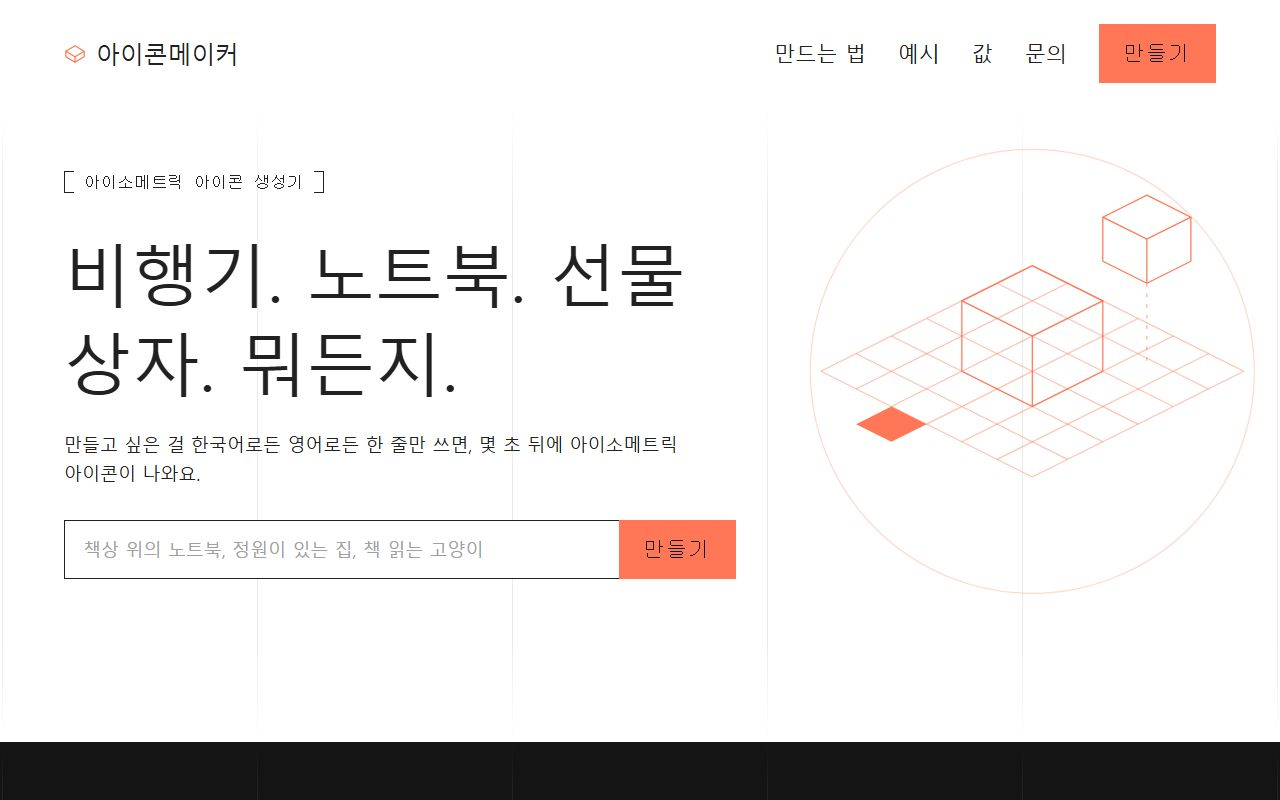
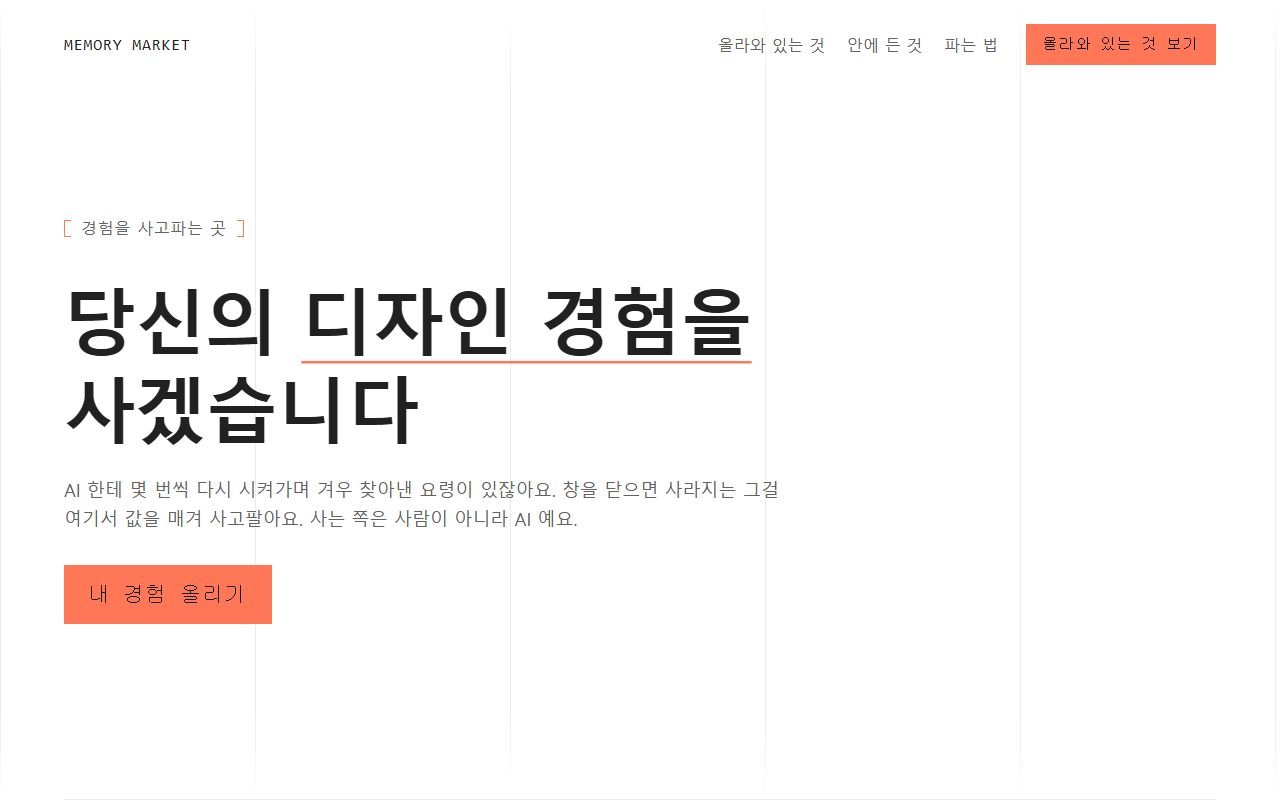
landing: 굵기 위계, 흐린 말풍선, 후 화면을 이 랜딩으로, 기록마다 사진
사장님 지적 다섯 가지.

- 가독성 — 전부 굵기 400 이던 것을 제목 600, 이름 600, 알게 된 것 500, 라벨 500 으로.
  bitnomial 을 베끼면서 굵기까지 하나로 눌러 놓은 게 읽기 힘들게 만들고 있었다.
- 가린 자리 — 빗금 막대를 흐린 말풍선으로. 오른쪽(사람)과 왼쪽(AI)이 번갈아 나와
  읽지 않아도 대화라는 게 보인다. DOM 에 글자는 여전히 0자다.
- 전후 사진 — 고친 뒤를 지금 보고 있는 이 랜딩의 첫 화면으로. 캡션은 "이 기록대로 고친 것".
  기록 01 의 알게 된 것(강조색 하나, 왼쪽 정렬, 그라데이션 없음, 1px 선)이 이 페이지에 그대로 들어가 있다.
- 사진 — 웹퍼블리셔(Paylane)는 체인에 있는 전후 두 장을 목록에서도 보여주고,
  카피라이터와 가상화폐 개발자는 안에 든 실제 글로 만든 사진을 붙였다.
  카피는 설명 파일의 제목 세 개, 가상화폐는 공개된 미리보기 두 건 그대로다. 지어낸 내용 없음.

카피 6/6, 디자인 5/5, 정합 어긋남 0건, 가로 스크롤 0, 가린 자리 글자 0.

diff --git a/site/index.html b/site/index.html
@@ -63,14 +63,14 @@
   /* ───────── 글자 사다리 ───────── */
   h1{
     font-size:clamp(30px, 5.6vw, 72px);
-    line-height:1.22; letter-spacing:0; font-weight:400;
+    line-height:1.22; letter-spacing:-.01em; font-weight:600;
     margin:18px 0 24px;
   }
   h1 .l1, h1 .l2{ display:block; }
-  .h2{ font-size:34px; line-height:1.3; font-weight:400; letter-spacing:0; margin:0 0 18px; }
+  .h2{ font-size:34px; line-height:1.3; font-weight:600; letter-spacing:0; margin:0 0 18px; }
   .lead{ font-size:21px; line-height:1.55; color:var(--mute); }
   .lead.w{ max-width:900px; }
-  .body{ font-size:18px; line-height:1.6; }
+  .body{ font-weight:500; font-size:18px; line-height:1.6; }
   .eyebrow{
     font-size:16px; line-height:1.5; letter-spacing:.04em; color:var(--mute);
     display:flex; align-items:center; gap:10px; margin:0 0 36px;
@@ -140,7 +140,7 @@
   .on-dark .row::after{ background:#5b5b5b; }
   .row .n{ font-family:var(--mono); font-size:16px; color:var(--mute); padding-top:6px; letter-spacing:.04em; }
   .on-dark .row .n{ color:var(--ondark-mute); }
-  .row .nm{ font-size:26px; line-height:1.35; font-weight:400; }
+  .row .nm{ font-size:26px; line-height:1.35; font-weight:600; }
   .row .ds{ font-size:18px; line-height:1.6; color:var(--mute); margin-top:8px; max-width:820px; }
   .row .mt{ font-family:var(--mono); font-size:15px; color:var(--mute); margin-top:12px; letter-spacing:.02em; }
   a.row .go{ position:absolute; right:0; top:28px; font-size:21px; color:var(--ink); }
@@ -166,20 +166,23 @@
   .on-dark .row .ds{ color:var(--ondark-soft); }
   .on-dark .row .mt{ color:var(--ondark-mute); }
 
-  .lab{ font-size:15px; letter-spacing:.04em; color:var(--mute); margin-bottom:6px; }
+  .lab{ font-size:14px; letter-spacing:.06em; color:var(--mute); margin-bottom:6px; font-weight:500; }
   .on-dark .lab{ color:var(--ondark-mute); }
   .on-dark .lab.hi{ color:var(--dark-accent); }
-  .said{ font-size:20px; line-height:1.55; }
+  .said{ font-size:20px; line-height:1.55; font-weight:500; }
   .got{ font-size:18px; line-height:1.6; color:var(--ondark-soft); }
   .said + .lab{ margin-top:18px; }
 
-  /* ───────── 가려진 자리. 글자를 한 자도 넣지 않는다 ───────── */
-  .mgrp{ margin:2px 0 0; }
+  /* ───────── 가려진 자리. 글자를 한 자도 넣지 않는다 ─────────
+     대화 모양의 흐린 덩어리다. 오른쪽이 사람, 왼쪽이 AI. 모양만으로 대화가 있다는 게 읽힌다. */
+  .mgrp{ margin:6px 0 0; display:flex; flex-direction:column; gap:10px; max-width:640px; }
   .mask{
-    display:block; height:12px; margin:0 0 8px; border-radius:0;
-    background-color:#2e2a27;
-    background-image:repeating-linear-gradient(135deg, rgba(255,255,255,.09) 0 5px, transparent 5px 10px);
+    display:block; flex:0 0 auto; height:44px; border-radius:18px 18px 18px 5px;
+    background:#d9d3cb; filter:blur(5px); opacity:.92; transform:translateZ(0);
   }
+  .mask.me{ align-self:flex-end; border-radius:18px 18px 5px 18px; background:#ffcdbd; }
+  .on-dark .mask{ background:#4b4642; }
+  .on-dark .mask.me{ background:#7a4d3e; }
   .mask:last-child{ margin-bottom:0; }
   .lockline{ display:flex; align-items:center; gap:8px; margin-top:12px; font-size:15px; color:var(--ondark-mute); }
   .lock{ position:relative; flex:0 0 auto; width:13px; height:16px; }
@@ -224,16 +227,16 @@
   .back{ display:inline-block; text-decoration:none; color:var(--mute); font-size:16px; margin-bottom:40px; }
   .back:hover{ color:var(--ink); }
   .dtop{ padding-top:48px; }
-  .dtitle{ font-size:clamp(28px,3.6vw,44px); line-height:1.28; font-weight:400; margin:0 0 16px; max-width:900px; }
+  .dtitle{ font-size:clamp(28px,3.6vw,44px); line-height:1.28; font-weight:600; margin:0 0 16px; max-width:900px; }
   .dsub{ font-size:18px; color:var(--mute); max-width:759px; margin:0 0 20px; }
   .orig{ font-size:16px; color:var(--mute); max-width:759px; margin:0 0 24px; padding-left:16px; border-left:1px solid var(--accent); }
-  .orig b{ font-weight:400; color:var(--ink); }
+  .orig b{ font-weight:500; color:var(--ink); }
   .dmeta{ display:flex; flex-wrap:wrap; gap:10px; margin-bottom:8px; }
   .chip{ border:1px solid #d8d8d8; border-radius:0; padding:7px 14px; font-family:var(--mono); font-size:15px; color:var(--mute); }
   button.chip{ cursor:pointer; }
   .chip.hi{ background:var(--accent); border-color:var(--accent); color:#141414; }
   .block{ padding-top:56px; }
-  .block h2{ font-size:26px; font-weight:400; margin:0 0 10px; }
+  .block h2{ font-size:26px; font-weight:600; margin:0 0 10px; }
   .block .bl{ color:var(--mute); font-size:18px; margin:0 0 24px; max-width:759px; }
   .dmask{ background-color:#ddd8d2; background-image:repeating-linear-gradient(135deg, rgba(0,0,0,.055) 0 5px, transparent 5px 10px); }
   .dlock i, .dlock b{ background:var(--mute); border-color:var(--mute); }
@@ -512,6 +515,13 @@
[1 lines of base64/hex data omitted]
     ['가상화폐 개발자 경험', '처음 붙이는 사람이 막히는 자리만 서른 개 모았어요. 사진 없이 글로만 들어 있어요.'];
 
+  /* 체인에 사진이 없는 기록에 붙이는 우리 사진. 안에 든 실제 글로 만들었다. */
+  var OURIMG = {};
[1 lines of base64/hex data omitted]
+    ['img/copy-record.jpg', '한국어 랜딩 문구를 고치며 알게 된 것들'];
[1 lines of base64/hex data omitted]
+    ['img/sui-record.jpg', 'Sui 를 처음 붙이며 막힌 자리를 적어둔 것'];
+
   /* 어두운 칸에 옮겨 적은 다섯 마디. 저장된 값의 지문으로 이어 붙여 어긋날 수 없게 한다. */
   var LESSON_BY_SHA = {
[1 lines of base64/hex data omitted]
@@ -626,12 +636,14 @@
     if(ticks % 2 === 1) t = t.replace(/`[^`]*$/, '').replace(/[\s,·]+$/, '');
     return plain(t.trim());
   }
-  /* 글자가 없는 회색 줄. DOM 에 텍스트를 넣지 않는다. */
+  /* 글자가 없는 흐린 말풍선. DOM 에 텍스트를 넣지 않는다. 사람 말(오른쪽)과 AI 답(왼쪽)이 번갈아 나온다. */
   function maskRows(seed, n, base){
     var out = '';
     for(var k = 0; k < n; k++){
       var w = base - ((seed * 17 + k * 29) % 27);
-      out += '<span class="mask dmask" style="width:' + w + '%"></span>';
+      var hgt = 38 + ((seed * 13 + k * 19) % 22);
+      var me = (k % 2 === 0);
+      out += '<span class="mask' + (me ? ' me' : '') + '" style="width:' + w + '%;height:' + hgt + 'px" aria-hidden="true"></span>';
     }
     return out;
   }
@@ -754,11 +766,27 @@
     + '<div><div class="cap">AI 가 만든 것</div>'
     + '<button class="shot" type="button" data-full="img/slop-before.jpg" data-cap="AI 가 만든 것" aria-label="AI 가 만든 것 — 눌러서 크게 보기">'
     + '<img src="img/slop-before.jpg" width="1280" height="800" alt="보라색 배경에 영어 문구가 박힌 랜딩 화면"></button></div>'
-    + '<div><div class="cap">열 번 고친 것</div>'
-    + '<button class="shot" type="button" data-full="img/clean-after.jpg" data-cap="열 번 고친 것" aria-label="열 번 고친 것 — 눌러서 크게 보기">'
-    + '<img src="img/clean-after.jpg" width="1280" height="800" alt="장식을 걷어내고 실제 제품 화면이 보이는 랜딩"></button></div>'
+    + '<div><div class="cap">이 기록대로 고친 것</div>'
+    + '<button class="shot" type="button" data-full="img/clean-after.jpg" data-cap="이 기록대로 고친 것" aria-label="이 기록대로 고친 것 — 눌러서 크게 보기">'
+    + '<img src="img/clean-after.jpg" width="1280" height="800" alt="지금 보고 있는 이 랜딩의 첫 화면"></button></div>'
     + '</div>';
 
+  /* 줄 밑에 붙는 사진. 01 은 우리 전후, Paylane 은 체인에 있는 전후, 나머지는 우리가 찍은 한 장. */
+  function rowShots(p){
+    if(p.id === SLOP_ID) return SHOTS;
+    if(p.id === STORY_ID && isSheet(p) && p.preview.sheet.previews && p.preview.sheet.previews.before && p.preview.sheet.previews.after){
+      var pv = p.preview.sheet.previews;
+      return '<div class="shots">'
+        + '<div><div class="cap">고치기 전</div><button class="shot" type="button" data-img="' + esc(pv.before) + '" data-alt="고치기 전 랜딩 화면"><span class="skel" style="width:100%;height:100%"></span></button></div>'
+        + '<div><div class="cap">고친 뒤</div><button class="shot" type="button" data-img="' + esc(pv.after) + '" data-alt="고친 뒤 랜딩 화면"><span class="skel" style="width:100%;height:100%"></span></button></div>'
+        + '</div>';
+    }
+    var im = OURIMG[p.id];
+    if(!im) return '';
+    return '<div class="shots"><div><div class="cap">안에 든 것</div>'
+      + '<button class="shot" type="button" data-full="' + im[0] + '" data-cap="' + esc(im[1]) + '" aria-label="' + esc(im[1]) + ' — 눌러서 크게 보기">'
+      + '<img src="' + im[0] + '" width="1280" height="800" alt="' + esc(im[1]) + '" loading="lazy"></button></div></div>';
+  }
   function renderRows(){
     var box = document.getElementById('rows');
     var err = document.getElementById('rows-err');
@@ -793,11 +821,12 @@
         +   '<span class="ds" style="display:block">' + esc(ourDesc(p)) + '</span>'
         +   '<span class="mt" style="display:block">' + countText(p) + ' · ' + esc(sui(p.fee))
         +     ' · ' + esc(ttlText(p.ttl_ms)) + ' 동안 열려요 · ' + esc(buyers(p.subscriber_count)) + '</span>'
-        +   (p.id === SLOP_ID ? SHOTS : '')
+        +   rowShots(p)
         + '</span>'
         + '<span class="go" aria-hidden="true">→</span>'
         + '</a>';
     }).join('');
+    fillShots(box);
     sweep();
   }
 
